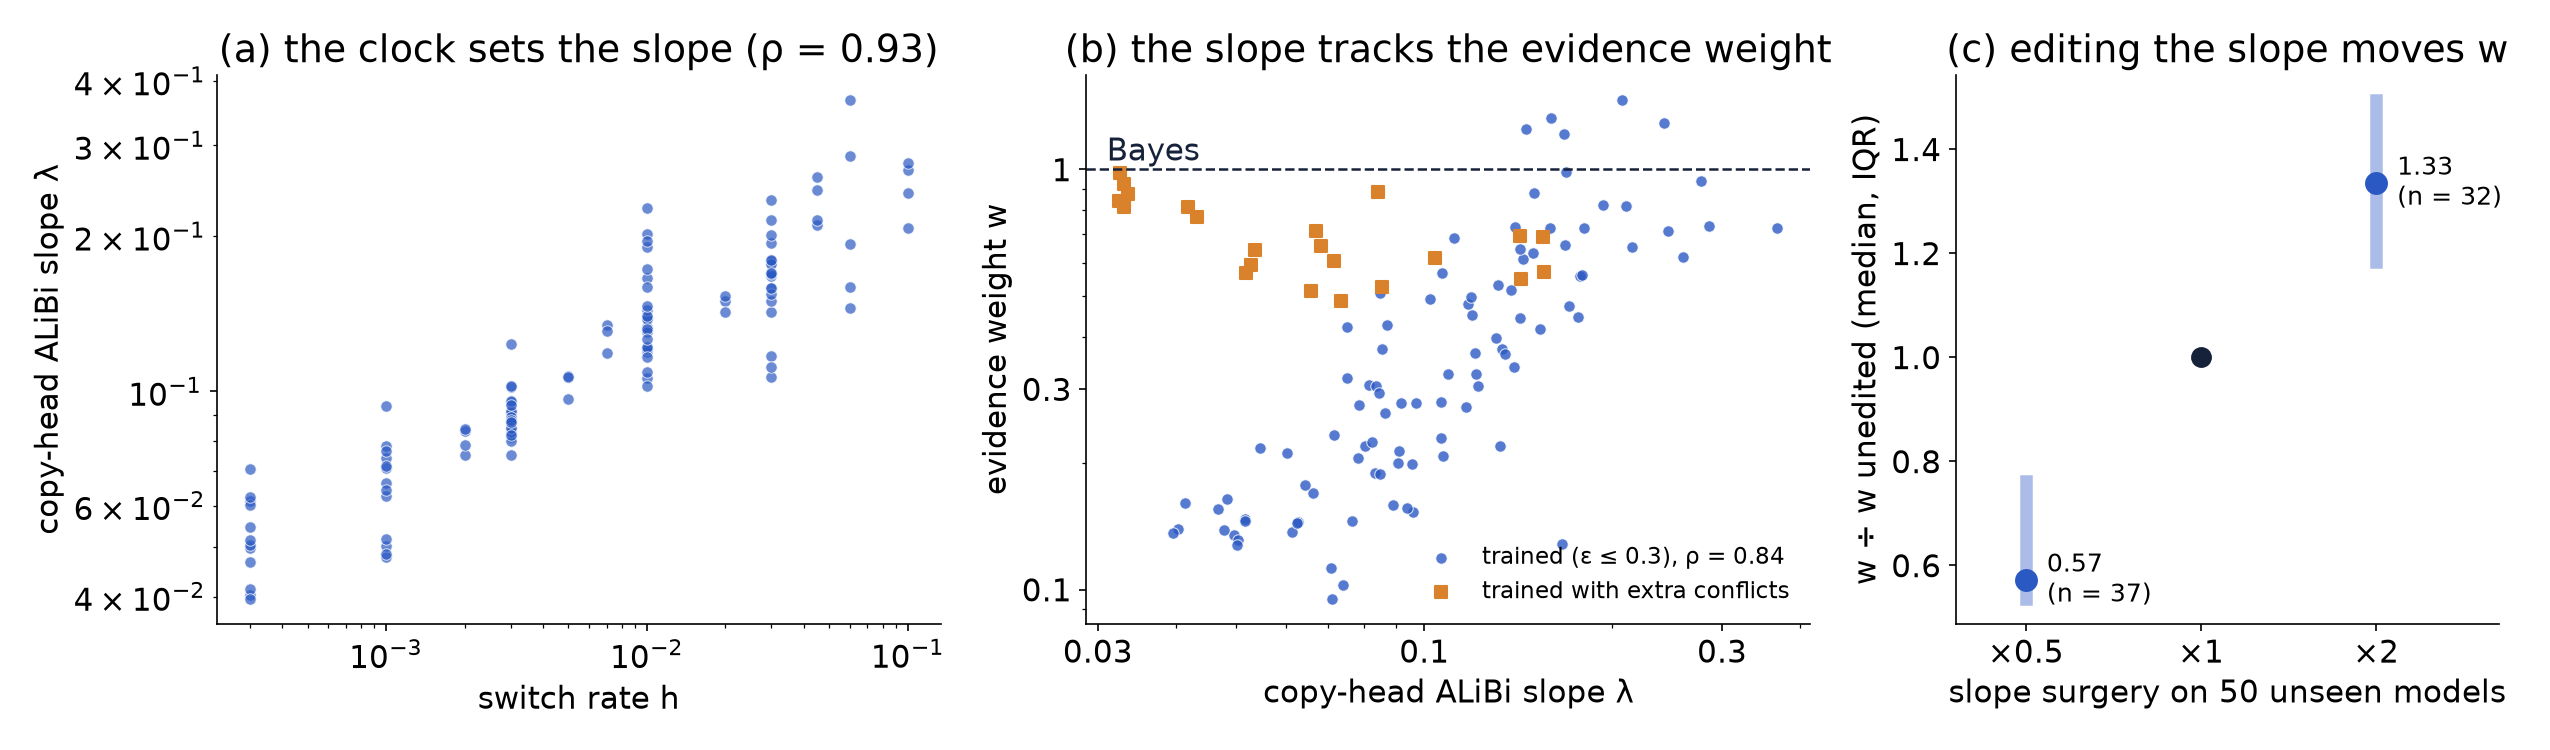
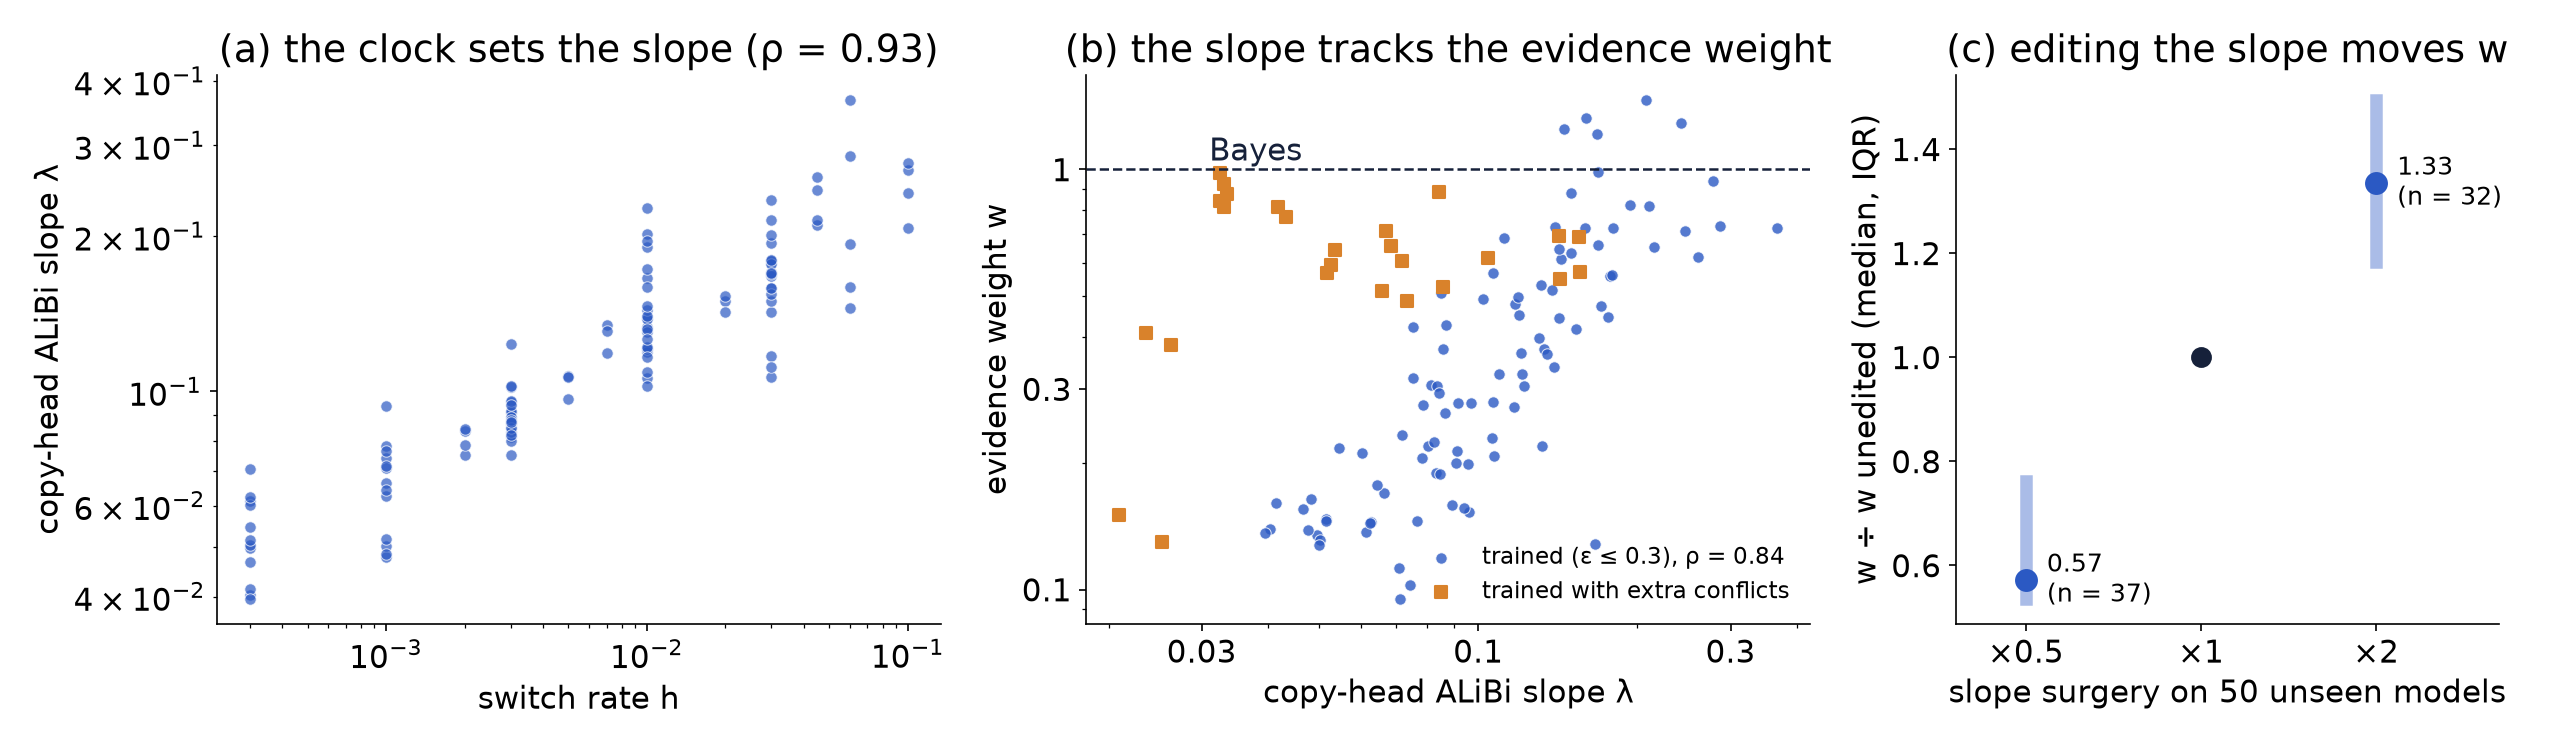
Slides: low-h edge after round 7; figures include E12

diff --git a/slides 2/source/slides/d_edges.html b/slides 2/source/slides/d_edges.html
@@ -7,7 +7,7 @@
 <thead><tr style="background:#16213A;color:#F5F7FA;text-align:left"><th style="padding:12px 22px;width:15%">Edge</th><th style="padding:12px 22px;width:33%">What the models do</th><th style="padding:12px 22px">Cause (how we know)</th><th style="padding:12px 22px;width:13%">Status</th></tr></thead>
 <tbody>
 <tr style="border-bottom:2px solid #E6E8EE"><td style="padding:10px 22px"><b>h ≥ 0.045</b></td><td style="padding:10px 22px">ε′ falls to ε or below (0.09 at ε = 0.1); law error ×2.3–5.1</td><td style="padding:10px 22px">the trained slope, and with it w, rises to ≈ 1 (measured); the law's ε′ has no h in it, so it keeps the in-box value</td><td style="padding:10px 22px"><span style="background:#E3F2EA;color:#22744A;border-radius:6px;padding:3px 12px;font-weight:600">explained</span></td></tr>
-<tr style="border-bottom:2px solid #E6E8EE"><td style="padding:10px 22px"><b>h ≤ 0.002</b></td><td style="padding:10px 22px">h′ stops at ≈ 0.01; at h = 0.0003 the switch points leave the window</td><td style="padding:10px 22px">Not the clock (one memory is believed correctly out to 248 pairs). A recent copy counts only once the old copies are far: 0.05 nats per copy at G ≤ 32, 1.4 at G = 128. Not context length (2×: ×1.13–1.34), not long-gap data (9×: ×1.10–1.27), not training length (4×: w unchanged). w is smallest here (≈ 0.15), for RoPE too (0.23): recent copies get little weight where conflicts rarely matter in training.</td><td style="padding:10px 22px"><span style="background:#FBF0DC;color:#8A5A12;border-radius:6px;padding:3px 12px;font-weight:600">partly</span></td></tr>
+<tr style="border-bottom:2px solid #E6E8EE"><td style="padding:10px 22px"><b>h ≤ 0.002</b></td><td style="padding:10px 22px">h′ stops at ≈ 0.01; at h = 0.0003 the switch points leave the window</td><td style="padding:10px 22px">Not the clock (one memory is believed correctly out to 248 pairs). w is smallest here: ALiBi ≈ 0.14, RoPE 0.23. For ALiBi at h = 0.0003 nothing we tried moves it: 2× context, 9× long-gap data, 4× training, doubling the slope, 10% conflict data. Conflict data does lift RoPE (0.23 → 0.48).</td><td style="padding:10px 22px"><span style="background:#FBF0DC;color:#8A5A12;border-radius:6px;padding:3px 12px;font-weight:600">partly</span></td></tr>
 <tr style="border-bottom:2px solid #E6E8EE"><td style="padding:10px 22px"><b>ε ≥ 0.35</b></td><td style="padding:10px 22px">Bayes's evidence is almost nil (≤ 0.07 nats per recent copy); law error ×3.2–15</td><td style="padding:10px 22px">over-counted: 0.01–0.26 nats per copy vs Bayes's ≤ 0.07, so models switch where Bayes cannot. The loss barely pins it: two seeds with equal loss give w = 1.26 and 0.08 (h = 0.01, ε = 0.35)</td><td style="padding:10px 22px"><span style="background:#FBF0DC;color:#8A5A12;border-radius:6px;padding:3px 12px;font-weight:600">varies by seed</span></td></tr>
 <tr><td style="padding:10px 22px"><b>ε ≤ 0.02</b></td><td style="padding:10px 22px">misfit ×1.5–2.8</td><td style="padding:10px 22px">the other way: under-counted, 0.3–1.7 nats per copy vs Bayes's 1.8–4.2 (w = 0.2–0.45)</td><td style="padding:10px 22px"><span style="background:#E3F2EA;color:#22744A;border-radius:6px;padding:3px 12px;font-weight:600">explained</span></td></tr>
 </tbody>
@@ -15,5 +15,5 @@
 <div style="background:#16213A;color:#F5F7FA;border-radius:12px;padding:20px 32px;font-size:25px;line-height:1.45">
 <b style="color:#F2B27E">One picture for inside and outside:</b> time is handled like Bayes everywhere. Evidence is handled as a compressed, h-dependent weight. The law works where that weight sits near its in-box value, and fails exactly where it moves.
 </div>
-<aside>Sir asked why the formula fails outside the region. At every edge the clock is still right, and what moves is the weight given to recent copies. At high h, recent copies get almost the full Bayes weight, so the believed typo rate drops, but the formula has no h in its typo part. At very high typo rates, Bayes gives a recent copy almost no weight, under a tenth of a nat, but the models give it several times more, so they switch where no Bayes curve can. This regime barely matters for the training loss, and it shows: at h of 0.01 and epsilon of 0.35, two seeds reach the same loss, but one weighs recent copies like Bayes or more and the other almost ignores them. So the direction is explained, but the exact behaviour there depends on the seed. At very low typo rates it is the other way round, and the misfit is mild. At very low h the picture is less clean: a single memory is still trusted correctly far beyond the gaps seen in training, but recent copies only count once the old copies are far away. Doubling the context length changed the switch point only slightly, so that is not the cause. Giving the model nine times more long gaps in training, by using more keys, barely changed it either. Training four times longer did not change it at the lowest h either. What we can say is that the evidence weight is smallest here, for RoPE models as well as ALiBi, which fits the idea that recent copies get little weight when conflicts rarely matter in training. But nothing we changed in the training data moved this edge, so we mark it as only partly explained.</aside>
+<aside>Sir asked why the formula fails outside the region. At every edge the clock is still right, and what moves is the weight given to recent copies. At high h, recent copies get almost the full Bayes weight, so the believed typo rate drops, but the formula has no h in its typo part. At very high typo rates, Bayes gives a recent copy almost no weight, under a tenth of a nat, but the models give it several times more, so they switch where no Bayes curve can. This regime barely matters for the training loss, and it shows: at h of 0.01 and epsilon of 0.35, two seeds reach the same loss, but one weighs recent copies like Bayes or more and the other almost ignores them. So the direction is explained, but the exact behaviour there depends on the seed. At very low typo rates it is the other way round, and the misfit is mild. At very low h the picture is less clean: a single memory is still trusted correctly far beyond the gaps seen in training, but recent copies only count once the old copies are far away. Doubling the context length changed the switch point only slightly, so that is not the cause. Giving the model nine times more long gaps in training, by using more keys, barely changed it either. Training four times longer did not change it at the lowest h either. What we can say is that the evidence weight is smallest here, for RoPE models as well as ALiBi. We tested the idea that this is because conflicts rarely matter in training, by adding conflict examples: that lifted RoPE's weight at h of 0.0003 from 0.23 to 0.48, but left ALiBi's at 0.14. For ALiBi at this h, nothing we tried, including doubling the slope, moved the weight. So we mark this edge as only partly explained.</aside>
 </section>

diff --git a/slides 2/source/slides/d_mech.html b/slides 2/source/slides/d_mech.html
@@ -12,8 +12,8 @@
 <b>(b, c) Slope → evidence.</b> The same slope sets how much each extra recent copy tips the balance. Editing it in 25 unseen models moves w: ×0.64 halved (20/20), ×1.28 doubled (14/16; pre-registered ×1.3, just missed). On 25 more (seed 1): ×0.56 and ×1.37.
 </div>
 <div style="background:#16213A;color:#F5F7FA;border-radius:12px;padding:18px 24px">
-<b style="color:#F2B27E">But not the whole cause:</b> RoPE has no slope, yet its w also falls at very low h (0.23 at h = 0.0003). Where weighing old against new rarely matters in training, both encodings give recent copies little weight. ALiBi's slope tie makes it worse. Extra conflict data (orange) raises w.
+<b style="color:#F2B27E">But not the whole cause:</b> RoPE has no slope, yet its w also falls at very low h (0.23 at h = 0.0003). Extra conflict data (orange) raises w at moderate h, and lifts RoPE at h = 0.0003, but leaves ALiBi there at 0.14.
 </div>
 </div>
-<aside>This is part of the explanation for why the evidence weight depends on h. In an ALiBi copy head, a single learned slope sets how fast attention to an old copy decays with distance. Training tunes that slope so that a single old memory fades exactly as fast as values really change, which is why the clock is calibrated, and so the slope grows with h. But the same slope also decides how much each extra recent copy shifts the balance between old and new. Across our models the evidence weight tracks the slope, and when we edit the slope by hand in 25 models we had not used before, the evidence weight moves with it: down by a third when we halve it, up by about a quarter when we double it. We had predicted at least 30 percent for doubling, so that half just missed. We then repeated the edit on 25 more models from a second seed: halving gave 0.56 and doubling 1.37, the same direction and a bit stronger. Bayes treats time and evidence separately; ALiBi ties them through one number. So in ALiBi the slope is one real cause of the drift. But it is not the whole story: RoPE models, which have no such slope, also give recent copies little weight at very low h. Our reading is that the weight is low wherever weighing old against new rarely matters for the training loss, and that ALiBi's slope makes this worse. Training with extra conflict examples raises the weight, which fits that reading.</aside>
+<aside>This is part of the explanation for why the evidence weight depends on h. In an ALiBi copy head, a single learned slope sets how fast attention to an old copy decays with distance. Training tunes that slope so that a single old memory fades exactly as fast as values really change, which is why the clock is calibrated, and so the slope grows with h. But the same slope also decides how much each extra recent copy shifts the balance between old and new. Across our models the evidence weight tracks the slope, and when we edit the slope by hand in 25 models we had not used before, the evidence weight moves with it: down by a third when we halve it, up by about a quarter when we double it. We had predicted at least 30 percent for doubling, so that half just missed. We then repeated the edit on 25 more models from a second seed: halving gave 0.56 and doubling 1.37, the same direction and a bit stronger. Bayes treats time and evidence separately; ALiBi ties them through one number. So in ALiBi the slope is one real cause of the drift. But it is not the whole story: RoPE models, which have no such slope, also give recent copies little weight at very low h. We tested whether this is because weighing old against new rarely matters for the training loss, by adding conflict examples. That raised the weight at moderate h and for RoPE at very low h, but not for ALiBi at h of 0.0003, so that reading is at most part of the answer.</aside>
 </section>
